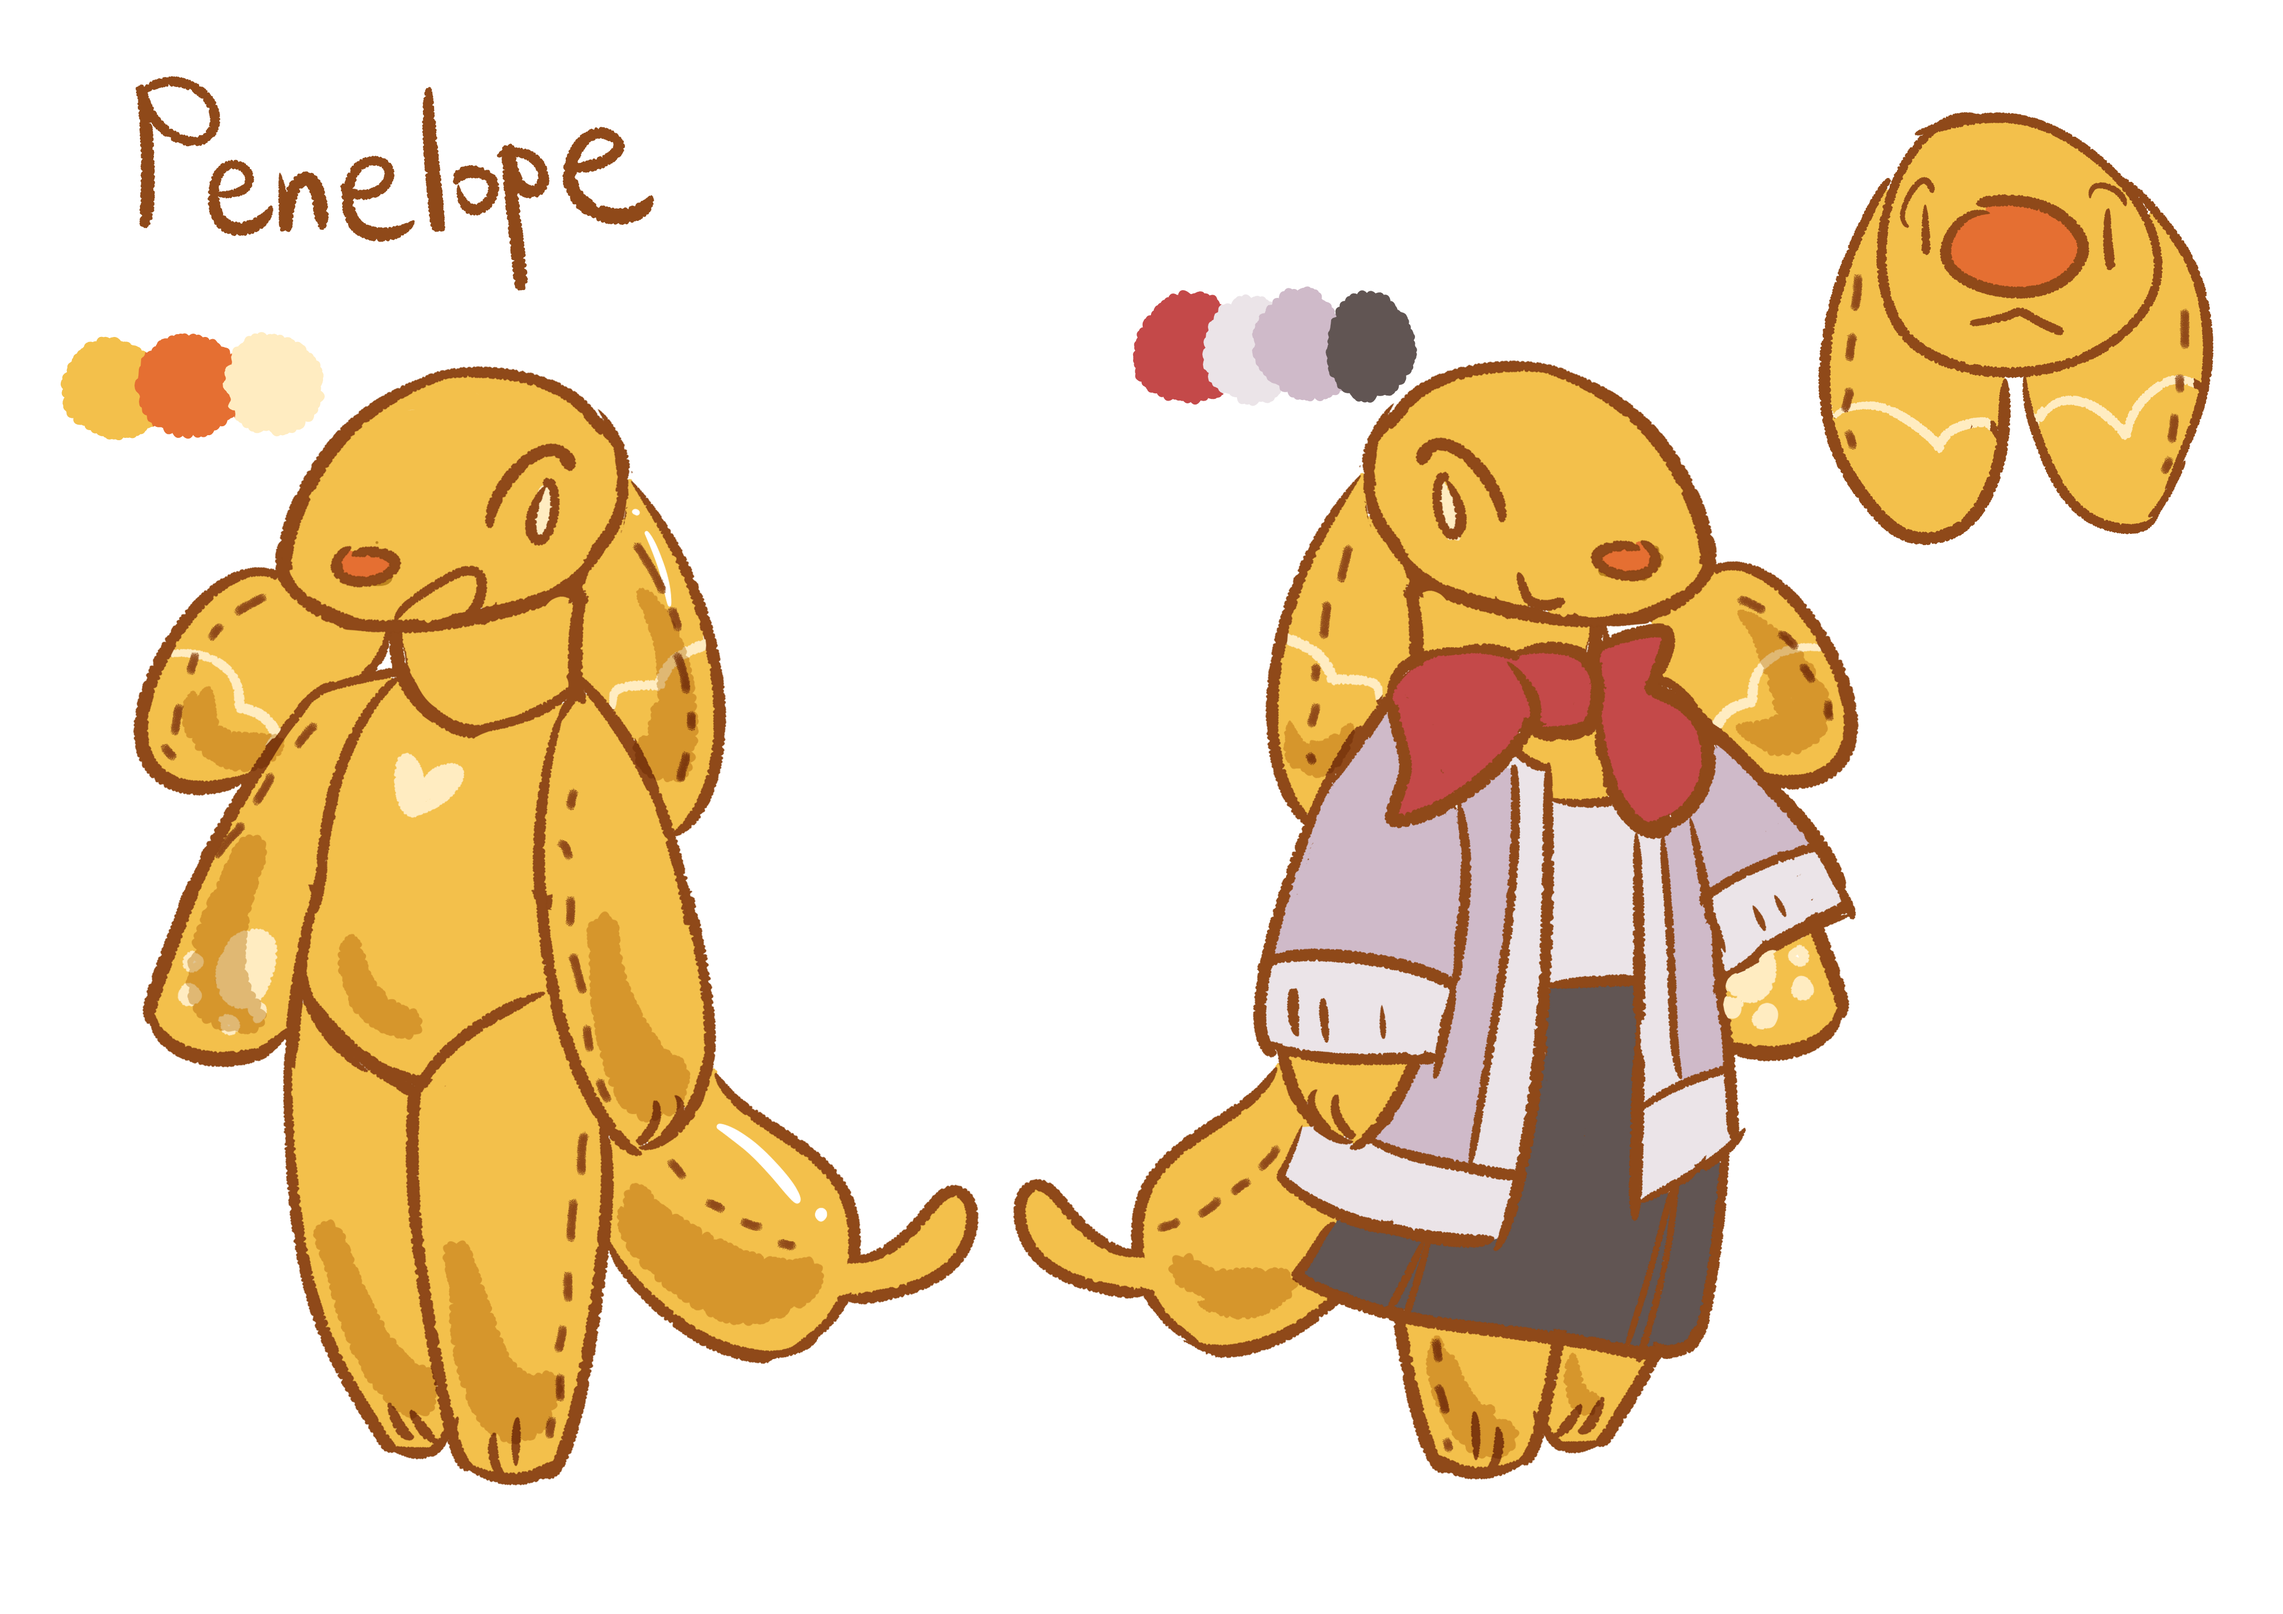
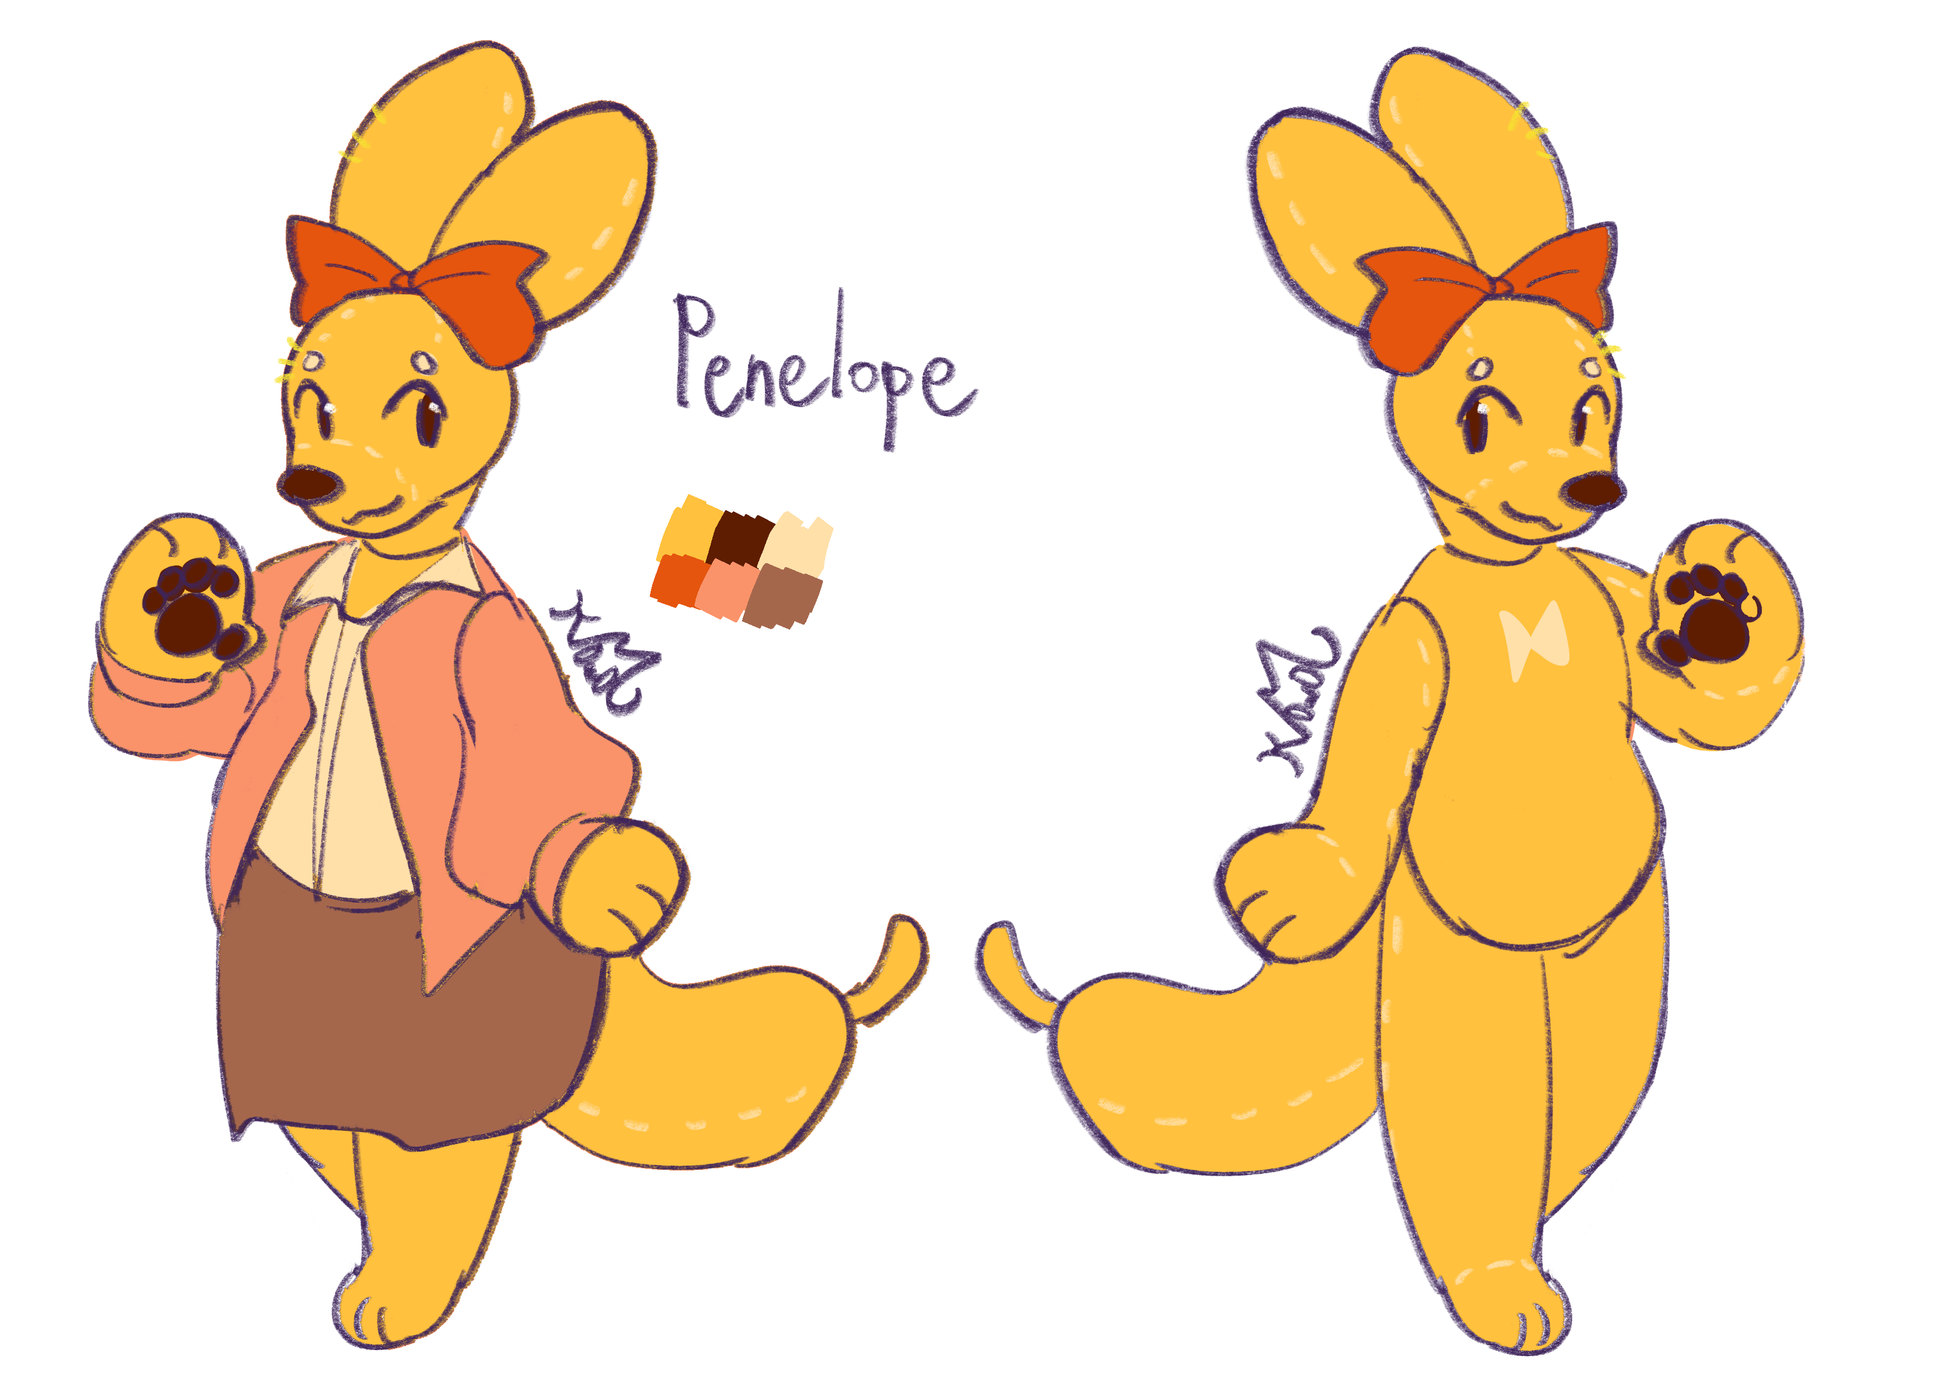
Updated Penelope's ref

diff --git a/public/updatelog/index.html b/public/updatelog/index.html
@@ -1,1 +1,1 @@
-<!doctype html><html><head><meta charset="UTF-8"><meta name="viewport" content="width=device-width,initial-scale=1"><title>KiwiMeowo's History</title><link rel="icon" type="image/x-icon" href="/favicon.ico?"><link href="/style.css" rel="stylesheet" type="text/css" media="all"><link href="/emote.css" rel="stylesheet" type="text/css" media="all"><link href="/style-my-tooltips.css" rel="stylesheet" type="text/css"><script src="http://ajax.googleapis.com/ajax/libs/jquery/1.7/jquery.min.js"></script><script src="/jquery.style-my-tooltips.js"></script></head><style>:root{--star:linear-gradient(#130F47,#592991)}.blognav{position:fixed;z-index:99;width:100%;background:rgb(15 14 49 / 50%);bottom:0;padding:10px 0;display:flex;justify-content:space-around}.blognav a,.blognav span:not(a span){filter:var(--dropshadow);display:inline-block;padding:3px 6px}.blognav span:not(a span){color:var(--yellow)}.blognav a{background:var(--yellow);filter:var(--dropshadow);border-radius:5px;color:var(--blue);text-decoration-color:var(--blue)}.blognav a span{border-radius:5px;padding:0 7.5px;filter:var(--dropshadow);background:linear-gradient(135deg,var(--gradient1),var(--gradient2))}.blognav a:focus,.blognav a:hover{background:#bcb9d6de;transition:background .5s;translate:var(--down);filter:var(--dropshadowdown)}</style><body><nav><a href="/sitemap.html" style="--svg:url(/assets/map.svg)"></a> <a href="/index.html" style="--svg:url(/assets/home.svg)"></a></nav><div class="blognav"><span>⇤ First</span> <span>⭠ Previous</span> <a href="/updatelog/page-2.html"><span>Next ⭢</span></a> <a href="/updatelog/page-5.html"><span>Last ⇥</span></a></div><main><section class="wide"><article><h1>Update Log</h1><div class="inner min"><ul><li>Added comment widget to art contained in artborder tags. Had to modify Ayano&apos;s comment widget a bit. It is a major change so please tell me if something&apos;s wrong.</li><p class="date">( 22 Sep 2026 )</p></ul><hr><ul><li>Added thumbnail editor to OC pages, shouldn&apos;t matter much for you guys</li><li>Added more images to Claire, Grey, Kyrea, Mira, Lavender and Cupcake&apos;s OC pages.</li><p class="date">( 22 Sep 2026 )</p></ul><hr><ul><li>Added new item in dressup room</li><p class="date">( 18 Sep 2026 )</p></ul><hr><ul><li>Added new OC <a href="oc/UtSS/Blossom/index.html">Blossom</a>!</li><li>Redesigned Cyan. man I hated their old design</li><p class="date">( 13 Sep 2026 )</p></ul><hr><ul><li>Added new clothing ArtExplorer to dress up game!</li><li>Added hide clothing system to avoid clutter!</li><p class="date">( 6 Sep 2026 )</p></ul><hr><ul><li>Added meme tag in art gallery</li><li>Added tag system from 2023-2026</li><li>Removed Meme page because it would be redundant</li><p class="date">( 29 Aug 2026 )</p></ul><hr><ul><li>Some art tag system organising!</li><p class="date">( 15 Aug 2026 )</p></ul><hr><ul><li>Added a <a href="/oc/UtSS/story/An_Old_Letter.html">new story regarding Mira</a></li><li>Updated UtSS and Dreamland Workshop lore a bit</li><p class="date">( 14 Aug 2026 )</p></ul><hr><ul><li>I now use Google Sheets for my Pic Feed instead of BlueSky!</li><li>I now use pagination in 11ty to generate my updatelog pages</li><p class="date">( 14 Jul 2026 )</p></ul><hr><ul><li>Added <a href="oc/other/Carnelian/index.html">Carenlian</a> to my OC page</li><p class="date">( 6 Jul 2026 )</p></ul><hr></div></article></section></main></body></html>
+<!doctype html><html><head><meta charset="UTF-8"><meta name="viewport" content="width=device-width,initial-scale=1"><title>KiwiMeowo's History</title><link rel="icon" type="image/x-icon" href="/favicon.ico?"><link href="/style.css" rel="stylesheet" type="text/css" media="all"><link href="/emote.css" rel="stylesheet" type="text/css" media="all"><link href="/style-my-tooltips.css" rel="stylesheet" type="text/css"><script src="http://ajax.googleapis.com/ajax/libs/jquery/1.7/jquery.min.js"></script><script src="/jquery.style-my-tooltips.js"></script></head><style>:root{--star:linear-gradient(#130F47,#592991)}.blognav{position:fixed;z-index:99;width:100%;background:rgb(15 14 49 / 50%);bottom:0;padding:10px 0;display:flex;justify-content:space-around}.blognav a,.blognav span:not(a span){filter:var(--dropshadow);display:inline-block;padding:3px 6px}.blognav span:not(a span){color:var(--yellow)}.blognav a{background:var(--yellow);filter:var(--dropshadow);border-radius:5px;color:var(--blue);text-decoration-color:var(--blue)}.blognav a span{border-radius:5px;padding:0 7.5px;filter:var(--dropshadow);background:linear-gradient(135deg,var(--gradient1),var(--gradient2))}.blognav a:focus,.blognav a:hover{background:#bcb9d6de;transition:background .5s;translate:var(--down);filter:var(--dropshadowdown)}</style><body><nav><a href="/sitemap.html" style="--svg:url(/assets/map.svg)"></a> <a href="/index.html" style="--svg:url(/assets/home.svg)"></a></nav><div class="blognav"><span>⇤ First</span> <span>⭠ Previous</span> <a href="/updatelog/page-2.html"><span>Next ⭢</span></a> <a href="/updatelog/page-5.html"><span>Last ⇥</span></a></div><main><section class="wide"><article><h1>Update Log</h1><div class="inner min"><ul><li>Updated Penelope&apos;s reference</li><p class="date">( 1 Oct 2026 )</p></ul><hr><ul><li>Added comment widget to art contained in artborder tags. Had to modify Ayano&apos;s comment widget a bit. It is a major change so please tell me if something&apos;s wrong.</li><p class="date">( 22 Sep 2026 )</p></ul><hr><ul><li>Added thumbnail editor to OC pages, shouldn&apos;t matter much for you guys</li><li>Added more images to Claire, Grey, Kyrea, Mira, Lavender and Cupcake&apos;s OC pages.</li><p class="date">( 22 Sep 2026 )</p></ul><hr><ul><li>Added new item in dressup room</li><p class="date">( 18 Sep 2026 )</p></ul><hr><ul><li>Added new OC <a href="oc/UtSS/Blossom/index.html">Blossom</a>!</li><li>Redesigned Cyan. man I hated their old design</li><p class="date">( 13 Sep 2026 )</p></ul><hr><ul><li>Added new clothing ArtExplorer to dress up game!</li><li>Added hide clothing system to avoid clutter!</li><p class="date">( 6 Sep 2026 )</p></ul><hr><ul><li>Added meme tag in art gallery</li><li>Added tag system from 2023-2026</li><li>Removed Meme page because it would be redundant</li><p class="date">( 29 Aug 2026 )</p></ul><hr><ul><li>Some art tag system organising!</li><p class="date">( 15 Aug 2026 )</p></ul><hr><ul><li>Added a <a href="/oc/UtSS/story/An_Old_Letter.html">new story regarding Mira</a></li><li>Updated UtSS and Dreamland Workshop lore a bit</li><p class="date">( 14 Aug 2026 )</p></ul><hr><ul><li>I now use Google Sheets for my Pic Feed instead of BlueSky!</li><li>I now use pagination in 11ty to generate my updatelog pages</li><p class="date">( 14 Jul 2026 )</p></ul><hr><ul><li>Added <a href="oc/other/Carnelian/index.html">Carenlian</a> to my OC page</li><p class="date">( 6 Jul 2026 )</p></ul><hr></div></article></section></main></body></html>

diff --git a/templates/updatelog/index.html b/templates/updatelog/index.html
@@ -3,6 +3,7 @@ layout: UpdateLog.njk
 sample:
   - {'infos':['text'],'date':'xx xxx 2026'}
 logs: 
+  - {'infos':['Updated Penelope&apos;s reference'],'date':'1 Oct 2026'}
   - {'infos':['Added comment widget to art contained in artborder tags. Had to modify Ayano&apos;s comment widget a bit. It is a major change so please tell me if something&apos;s wrong.'],'date':'22 Sep 2026'}
   - {'infos':['Added thumbnail editor to OC pages, shouldn&apos;t matter much for you guys','Added more images to Claire, Grey, Kyrea, Mira, Lavender and Cupcake&apos;s OC pages.'],'date':'22 Sep 2026'}
   - {'infos':['Added new item in dressup room'],'date':'18 Sep 2026'}

diff --git a/public/index.html b/public/index.html
@@ -300,7 +300,7 @@ filter: hue-rotate(20deg) saturate(2) brightness(0.7);
                   alt="Birthday art for Jaspers, Bun and Penelope" 
                   style="object-position:center top; scale:1.5; translate:-20% 10%;">
                 </button>
-            <p class="date">( 19 Sep 2026 )</p>
+            <p class="date">( 29 Sep 2026 )</p>
             <hr>
             <!--✩❄-->
             <style>

diff --git a/templates/blog/template.html b/templates/blog/template.html
@@ -1,6 +1,6 @@
 ---
 layout: BlogTemplate_v2.njk
-tags: ['blog','2026/3rd']
+tags: ['blog','2026/4th']
 style: >
 
 deco: >
